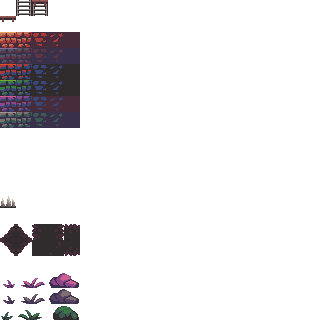
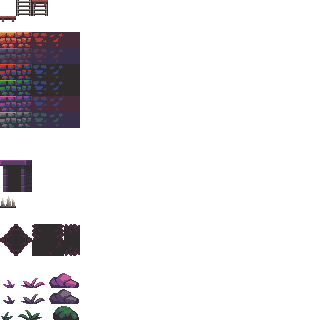
added exit graphic

Changed region(s): [[0.0, 0.5, 0.125, 0.625]]

diff --git a/core/player.go b/core/player.go
@@ -24,6 +24,7 @@ const tryJumpMarginTime = 0.1
 const ladderGrabAllowance = 8.0
 const takeDamageTime = 0.3
 const postDamageTime = 0.6
+const playerDeathTime = 2.0
 
 type Player struct {
 	x                  float64
@@ -39,7 +40,6 @@ type Player struct {
 	timer              float64
 	shootTimer         float64
 	image              *ebiten.Image
-	lives              int
 	animTimer          float64
 	targetFrame        int
 	moveYSpeed         float64
@@ -58,11 +58,14 @@ type Player struct {
 	lockedToLadder     bool
 	takeDamageTimer    float64
 	postDamageTimer    float64
+	health             int
+	deathTimer         float64
 }
 
 func NewPlayer(game *Game) *Player {
 	p := &Player{
 		state:            playingState,
+		health:           2,
 		x:                19 * common.TileSize,
 		y:                12 * common.TileSize,
 		sizex:            16, // physical size
@@ -71,7 +74,6 @@ func NewPlayer(game *Game) *Player {
 		drawOffsetY:      16, // just for drawing
 		drawSizex:        32, // just for drawing
 		drawSizey:        32,
-		lives:            2,
 		currentAnimation: "idle",
 		animations: map[string]*Animation{
 			"run": {
@@ -94,6 +96,13 @@ func NewPlayer(game *Game) *Player {
 				size:            32,
 				frameTimeAmount: 1,
 				isLoop:          true,
+			},
+			"death": {
+				image:           game.images["player-death"],
+				numFrames:       3,
+				size:            32,
+				frameTimeAmount: 0.4,
+				isLoop:          false,
 			},
 			"fall": {
 				image:           game.images["player-fall"],
@@ -127,6 +136,13 @@ func NewPlayer(game *Game) *Player {
 func (r *Player) Update(delta float64, game *Game) {
 
 	switch r.state {
+	case dyingState:
+		r.deathTimer -= delta
+		if r.deathTimer < 0 {
+			game.PlayerDeath()
+		}
+		r.currentAnimation = "death"
+		r.animations[r.currentAnimation].Update(delta)
 	case playingState:
 		var tryJump bool
 		var pressJump bool
@@ -396,7 +412,7 @@ func (r *Player) Update(delta float64, game *Game) {
 			}
 		}
 		if hitDamage {
-			game.player.TakeDamage()
+			game.player.TakeDamage(game)
 		}
 		if r.takeDamageTimer > 0 {
 			r.takeDamageTimer -= delta
@@ -419,9 +435,6 @@ func (r *Player) Update(delta float64, game *Game) {
 }
 
 func (r *Player) Draw(camera common.Camera) {
-	if r.state == dyingState {
-		return
-	}
 	if r.postDamageTimer > 0 || r.takeDamageTimer > 0 {
 		if math.Mod(r.postDamageTimer, 0.16) > 0.08 {
 			return
@@ -439,18 +452,11 @@ func (r *Player) Draw(camera common.Camera) {
 	camera.DrawImage(r.animations[r.currentAnimation].GetCurrentFrame(), op)
 }
 
-func (r *Player) GetHit(game *Game) {
-	r.lives = r.lives - 1
-	if r.lives < 0 {
-		r.state = dyingState
-	}
-}
-
 func (r *Player) GetPos() (float64, float64) {
 	return r.x, r.y
 }
 
-func (r *Player) TakeDamage() {
+func (r *Player) TakeDamage(game *Game) {
 	// already busy taking damage
 	if r.takeDamageTimer > 0 {
 		return
@@ -459,8 +465,14 @@ func (r *Player) TakeDamage() {
 	if r.postDamageTimer > 0 {
 		return
 	}
-	r.takeDamageTimer = takeDamageTime
-	r.ForceJump()
+	r.health -= 1
+	if r.health > 0 {
+		r.takeDamageTimer = takeDamageTime
+		r.ForceJump()
+	} else {
+		r.deathTimer = playerDeathTime
+		r.state = dyingState
+	}
 }
 
 func (r *Player) ForceJump() {

diff --git a/core/gameactions.go b/core/gameactions.go
@@ -9,5 +9,13 @@ func (r *Game) LoadLevel(name string) {
 	r.level = NewLevel(name)
 	r.player.x = r.level.spawn.x
 	r.player.y = r.level.spawn.y
-	fmt.Println("spawn ", r.player.x, " ", r.player.y)
+	fmt.Println("load level ", name)
+}
+
+func (r *Game) PlayerDeath() {
+	r.player = NewPlayer(r)
+	r.camera.Target(r.player)
+	r.player.x = r.level.spawn.x
+	r.player.y = r.level.spawn.y
+	fmt.Println("player death")
 }

diff --git a/core/game.go b/core/game.go
@@ -23,6 +23,7 @@ func NewGame() *Game {
 			"player-jump":  common.LoadImage("player-jump.png"),
 			"player-fall":  common.LoadImage("player-fall.png"),
 			"player-hurt":  common.LoadImage("player-hurt.png"),
+			"player-death": common.LoadImage("player-death.png"),
 			"player-climb": common.LoadImage("player-climb.png"),
 		},
 		lastUpdateCalled: time.Now(),
